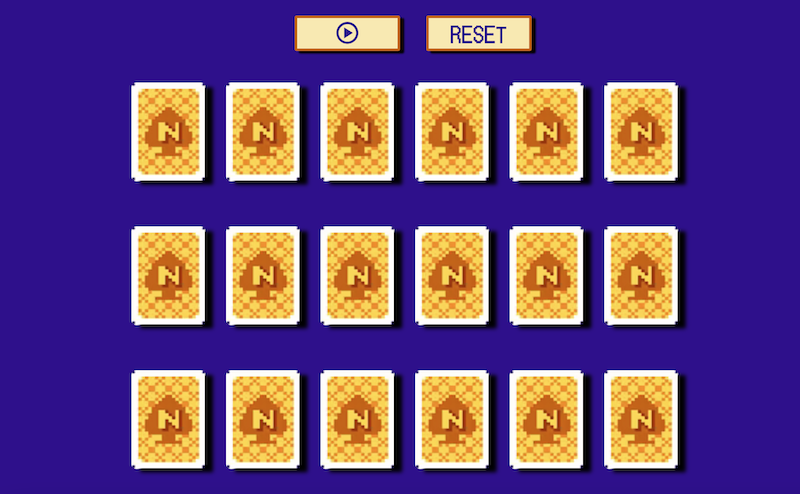
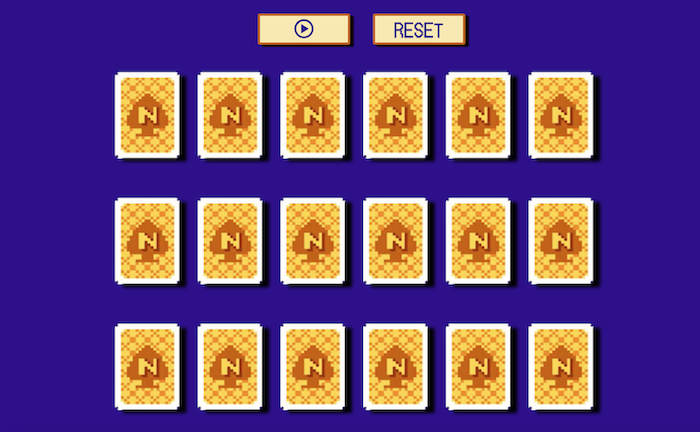
feat: try to fix mobile flip card which is only visible on mobile and working fine on developer tool

diff --git a/src/index.css b/src/index.css
@@ -43,7 +43,7 @@ body,
 .banner {
   display: flex;
   justify-content: center;
-  height: 12%;
+  height: 11%;
   width: 100vw;
   padding: 0.5rem;
   margin-bottom: 0.4rem;
@@ -117,7 +117,7 @@ body,
   top: 280px;
   transform: translateX(0);
   opacity: 1;
-  transition: all 0.2s linear;
+  transition: all 0.3s linear;
   z-index: 10;
 }
 
@@ -145,14 +145,14 @@ body,
   .toad {
     height: 150px;
     width: 150px;
-    transition: all 0.2s linear;
+    transition: all 0.3s linear;
   }
 
   .toad-victory {
     transform: translate(110px) rotate(0.1turn);
   }
   .vicmsg {
-    transition: all 0.2s linear;
+    transition: all 0.3s linear;
   }
   .vicmsg-transition {
     transform: translate(200px);
@@ -171,23 +171,33 @@ body,
 
 .memory-game {
   width: 100%;
-  height: 85%;
+  height: 450px;
   margin: auto;
   display: flex;
   flex-wrap: wrap;
   justify-content: center;
-  gap: 15px;
+  gap: 14px;
   perspective: 1000px;
+  z-index: 5;
 }
 .card-game {
-  width: 70px;
-  height: 90px;
+  background-color: transparent;
+  width: 62px;
+  height: 75px;
   border: 1px white solid;
   border-radius: 6px;
   transition: 0.5s;
   transform-style: preserve-3d;
   position: relative;
   cursor: pointer;
+  /* perspective: 1000px; */
+}
+.inner {
+  transform-style: preserve-3d;
+  position: relative;
+  cursor: pointer;
+  width: 100%;
+  height: 100%;
 }
 
 .card-game img {
@@ -197,6 +207,7 @@ body,
 
 .card {
   backface-visibility: hidden;
+  -webkit-backface-visibility: hidden;
   position: absolute;
   width: 100%;
   height: 100%;
@@ -213,6 +224,10 @@ body,
 
 .flip {
   transform: rotateY(180deg);
+}
+
+.back-face {
+  background-color: transparent;
 }
 @media screen and (min-width: 650px) {
   .memory-game {

diff --git a/src/App.js b/src/App.js
@@ -80,7 +80,7 @@ function App() {
       <div className='confetto'>
         {isExploding && <ConfettiExplosion {...confettiProps} />}
       </div>
-      <div className={`gameboard ${gameWin ? 'gamewon' : ''}`}>
+      <div className={`gameboard ${playing ? 'gamewon' : ''}`}>
         <div className='banner'>
           <button className='iconic' onClick={() => setPlaying(!playing)}>
             {!playing ? (
@@ -93,12 +93,12 @@ function App() {
             <p>RESET</p>
           </button>
         </div>
-        <div className={`vicmsg ${gameWin ? 'vicmsg-transition' : ''}`}>
+        <div className={`vicmsg ${playing ? 'vicmsg-transition' : ''}`}>
           Well Done
         </div>
         <img
-          className={`toad ${gameWin ? 'toad-victory' : ''}`}
-          src={require(`./imgs/toad.png`)}
+          className={`toad ${playing ? 'toad-victory' : ''}`}
+          src={require(`./imgs/toad-32b.png`)}
         ></img>
         <Memory
           card={card}

diff --git a/src/components/memory.js b/src/components/memory.js
@@ -50,11 +50,13 @@ const Memory = ({ card, setCurrcards, currcards, timeout, check, cardWin }) => {
               SelectSong.play();
             }}
           >
-            <div className='card font-face'>
-              <img src={require('../imgs/front.png')} alt='front' />
-            </div>
-            <div className='card back-face'>
-              <img src={img} alt={name}></img>
+            <div className='inner'>
+              <div className='card font-face'>
+                <img src={require('../imgs/front.png')} alt='front' />
+              </div>
+              <div className='card back-face'>
+                <img src={img} alt={name}></img>
+              </div>
             </div>
           </div>
         );
